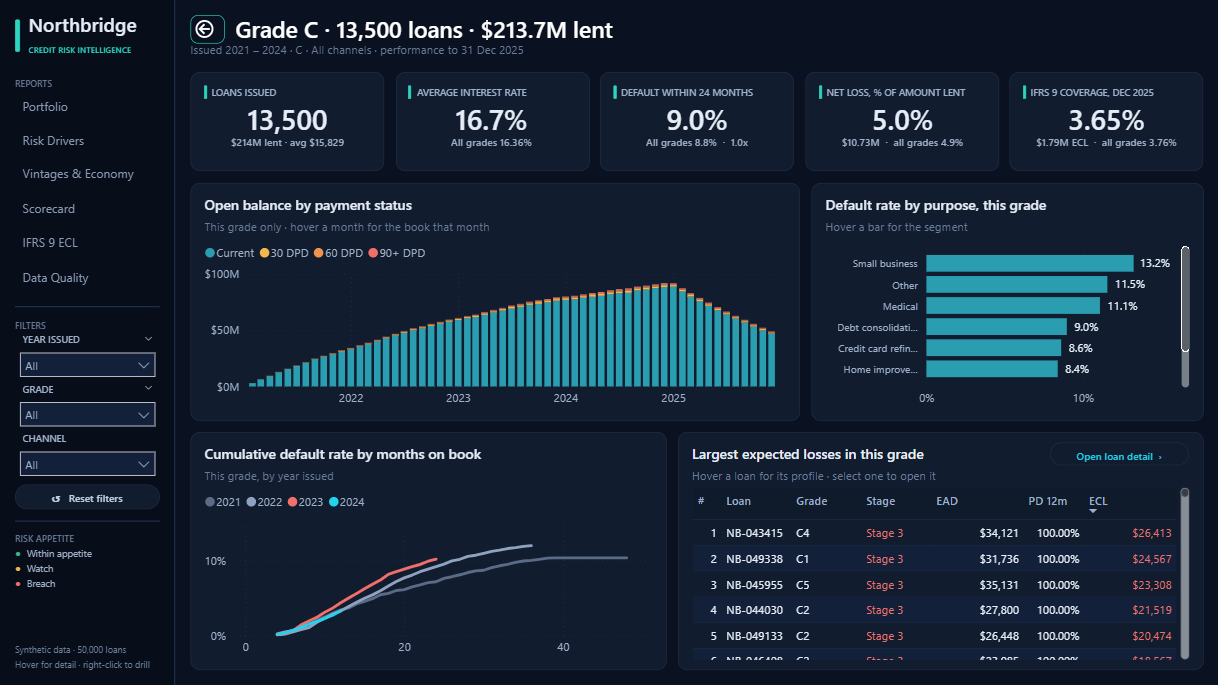
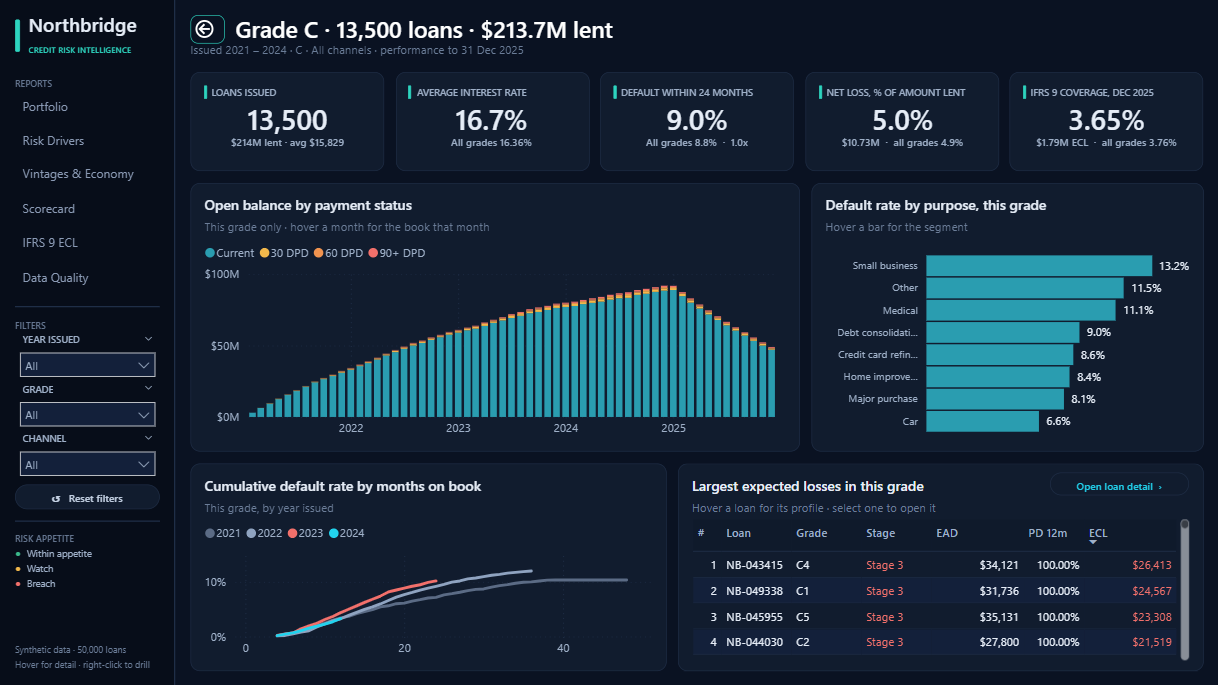
Step 4: page polish - labels, axes, spacing (layout and formatting only)
- Risk Drivers: policy labels no longer truncated, band labels horizontal, value axes removed where bars carry labels
- Vintages: one-line curve title and a subtitle that fits; roll-rate matrix tighter, unemployment chart taller
- Data Quality: all 14 checks visible without scrolling, Match header no longer wraps, redundant axis removed
- IFRS 9 ECL: scenario chart without the duplicate value axis
- Grade Detail: taller top row so all eight purposes show
- No measure, relationship or ECL change

diff --git a/scripts/build_pbip.py b/scripts/build_pbip.py
@@ -1231,9 +1231,37 @@ TOOLTIPS = {("portfolio", "orig"): "tooltip", ("portfolio", "grades"): "tip_segm
             ("grade", "balance"): "tooltip", ("grade", "purpose"): "tip_segment", ("grade", "top"): "tip_loan"}
 
 
+NO_AXIS = {"valueAxis": [{"properties": {"show": lit(False)}}]}
+POLISH = {
+    # bar charts that carry data labels: the value axis only repeats them
+    ("risk", "purpose"): NO_AXIS,
+    ("risk", "policy"): {**NO_AXIS, "categoryAxis": [{"properties": {"maxMarginFactor": lit(45), "fontSize": lit(8)}}]},
+    **{("risk", f"band_{c}"): {**NO_AXIS, "categoryAxis": [{"properties": {"fontSize": lit(7.5), "innerPadding": lit(14)}}]}
+       for c in ("fico_band", "dti_band", "income_band")},
+    ("ecl", "scen"): NO_AXIS,
+    ("quality", "fixes"): NO_AXIS,
+    ("grade", "purpose"): {**NO_AXIS, "categoryAxis": [{"properties": {"innerPadding": lit(6), "fontSize": lit(8)}}]},
+    # data-quality log: compact rows so all 14 checks show
+    ("quality", "log"): {"grid": [{"properties": {"rowPadding": lit(3)}}]},
+    # roll-rate matrix: larger cells now that the panel is shorter and fuller
+    ("vintage", "roll"): {"grid": [{"properties": {"rowPadding": lit(7)}}]},
+}
+
+
 def with_fit(fn):
     def build():
         page = fn()
+        for (pk, vid), objs in POLISH.items():
+            if pk == page.key:
+                v = next(x for x in page.visuals if x["name"] == hid(pk, vid))["visual"]
+                o = dict(v.get("objects", {}))
+                for k, val in objs.items():
+                    if k == "categoryAxis" and k in o:           # keep axisType etc., add the new properties
+                        merged = dict(o[k][0]["properties"]); merged.update(val[0]["properties"])
+                        o[k] = [{"properties": merged}]
+                    else:
+                        o[k] = val
+                v["objects"] = o
         for (pk, vid), tip in TOOLTIPS.items():
             if pk == page.key:
                 v = next(x for x in page.visuals if x["name"] == hid(pk, vid))
@@ -1360,19 +1388,19 @@ def page_vintage():
     p.add("vintage", X0, 192, 600, 512, visual(
         "lineChart", {"Category": [(col("dim_mob", "mob"), "Months on book")], "Series": [(YEAR, "Year issued")],
                       "Y": [(mea("Cum Default Rate"), "Cumulative default rate")]},
-        title=mea("Title Vintage"),
-        subtitle="Each line stops at the age its youngest loans have reached · 2023 loans met the 2024 unemployment peak early in life",
+        title="Cumulative default rate by months on book",
+        subtitle="Lines stop at the youngest loans' age · 2023 loans (red) met the 2024 unemployment peak early",
         sort=[(col("dim_mob", "mob"), "Ascending")],
         objects={"categoryAxis": [{"properties": {"axisType": lit("Scalar")}}],
                  "dataPoint": value_colors(YEAR, {2021: "#5B6B85", 2022: "#8FA3C0", 2023: BAD, 2024: CYAN}, literal=lambda v: f"{v}L")}))
-    p.add("roll", X0 + 600 + GAP, 192, CW - 600 - GAP, 240, visual(
+    p.add("roll", X0 + 600 + GAP, 192, CW - 600 - GAP, 212, visual(
         "pivotTable", {"Rows": [(col("fact_loan_month", "status"), "This month")],
                        "Columns": [(col("fact_loan_month", "next_status"), "Next month")],
                        "Values": [(mea("Roll Rate"), "Share")]},
         title="Roll rates: where loans are next month", subtitle="Half of 30-day-late loans cure; half roll on toward default",
         objects={"values": heat_cf("Roll Rate", "Roll Heat", "Roll Heat Font"), **NO_SUBTOTALS,
                  "columnHeaders": [{"properties": {"fontSize": lit(8)}}]}))
-    p.add("macro", X0 + 600 + GAP, 444, CW - 600 - GAP, 260, visual(
+    p.add("macro", X0 + 600 + GAP, 416, CW - 600 - GAP, 288, visual(
         "lineClusteredColumnComboChart", {"Category": [MONTH], "Y": [(mea("Defaults per 1,000"), "New defaults per 1,000 performing loans")],
                                           "Y2": [(mea("Unemployment"), "Unemployment")]},
         title="Default starts follow unemployment", subtitle="Bars: new defaults per 1,000 performing loans · line: unemployment",
@@ -1493,8 +1521,8 @@ def page_quality():
         sort=[(col("dq_log", "issue"), "Ascending")],
         objects={"values": [cf(ref(mea("DQ Match")), font="Match Color")], **NO_TOTALS,
                  "columnWidth": [{"properties": {"value": lit(w_)}, "selector": {"metadata": r}} for r, w_ in [
-                     (ref(col("dq_log", "issue")), 214), (ref(mea("DQ Rows")), 58), (ref(mea("DQ Injected")), 62),
-                     (ref(mea("DQ Match")), 44), (ref(col("dq_log", "action")), 150)]]}))
+                     (ref(col("dq_log", "issue")), 204), (ref(mea("DQ Rows")), 58), (ref(mea("DQ Injected")), 64),
+                     (ref(mea("DQ Match")), 56), (ref(col("dq_log", "action")), 156)]]}))
     return p
 
 
@@ -1596,13 +1624,13 @@ def page_grade():
         ("Net Loss Rate", "Net loss, % of amount lent", "Note Grade Loss", SLATE, ""),
         ("Coverage", "IFRS 9 coverage, Dec 2025", "Note Grade Cov", SLATE, "")])
     STATUS = (col("fact_loan_month", "status"), "Status")
-    p.add("balance", X0, 192, 640, 250, visual(
+    p.add("balance", X0, 192, 640, 282, visual(
         "columnChart", {"Category": [MONTH], "Series": [STATUS], "Y": [(mea("Book Balance"), "Balance")]},
         title="Open balance by payment status", subtitle="This grade only · hover a month for the book that month",
         objects={"dataPoint": value_colors(col("fact_loan_month", "status"), STATUS_COLORS),
                  "categoryAxis": [{"properties": {"axisType": lit("Scalar")}}],
                  "valueAxis": [{"properties": {"labelDisplayUnits": lit(1000000)}}]}))
-    p.add("purpose", X0 + 640 + GAP, 192, CW - 640 - GAP, 250, visual(
+    p.add("purpose", X0 + 640 + GAP, 192, CW - 640 - GAP, 282, visual(
         "clusteredBarChart", {"Category": [(col("dim_loan", "purpose"), "Purpose")],
                               "Y": [(mea("Default Rate 24m"), "Default within 24 months")]},
         title="Default rate by purpose, this grade", subtitle="Hover a bar for the segment",
@@ -1610,14 +1638,14 @@ def page_grade():
         objects={"dataPoint": [{"properties": {"fill": solid(PRIMARY)}}], "labels": labels(True, labelPrecision=lit_int(1)),
                  "categoryAxis": [{"properties": {"innerPadding": lit(12), "fontSize": lit(8)}}]}))
     YEAR = col("dim_loan", "vintage_year")
-    p.add("vintage", X0, 454, 500, 250, visual(
+    p.add("vintage", X0, 486, 500, 218, visual(
         "lineChart", {"Category": [(col("dim_mob", "mob"), "Months on book")], "Series": [(YEAR, "Year issued")],
                       "Y": [(mea("Cum Default Rate"), "Cumulative default rate")]},
         title="Cumulative default rate by months on book", subtitle="This grade, by year issued",
         sort=[(col("dim_mob", "mob"), "Ascending")],
         objects={"categoryAxis": [{"properties": {"axisType": lit("Scalar")}}],
                  "dataPoint": value_colors(YEAR, {2021: "#5B6B85", 2022: "#8FA3C0", 2023: BAD, 2024: CYAN}, literal=lambda v: f"{v}L")}))
-    p.add("top", X0 + 500 + GAP, 454, CW - 500 - GAP, 250, visual(
+    p.add("top", X0 + 500 + GAP, 486, CW - 500 - GAP, 218, visual(
         "tableEx", {"Values": [(mea("ECL Rank"), "#"), (col("dim_loan", "loan_id"), "Loan"), (col("dim_loan", "sub_grade"), "Grade"),
                                (col("dim_loan", "stage_2025"), "Stage"), (mea("EAD"), "EAD"),
                                (mea("PD 12m (EAD-weighted)"), "PD 12m"), (mea("ECL"), "ECL")]},
@@ -1625,7 +1653,7 @@ def page_grade():
         sort=[(mea("ECL"), "Descending")],
         objects={**NO_TOTALS, "values": [cf(ref(col("dim_loan", "stage_2025")), font="Loan Stage Color"),
                                          cf(ref(mea("ECL")), font="Loan Stage Color")]}))
-    drill_button(p, "top_open", X1 - 162, 464, 146, "Open loan detail  ›", "loan", "Select one loan in the table first")
+    drill_button(p, "top_open", X1 - 162, 496, 146, "Open loan detail  ›", "loan", "Select one loan in the table first")
     return p
 
 
